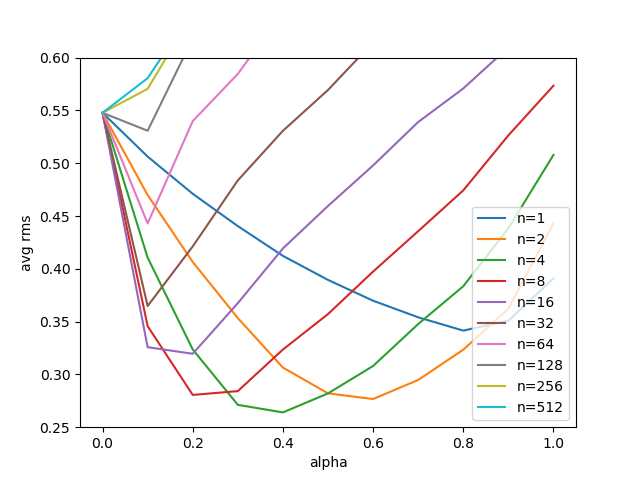
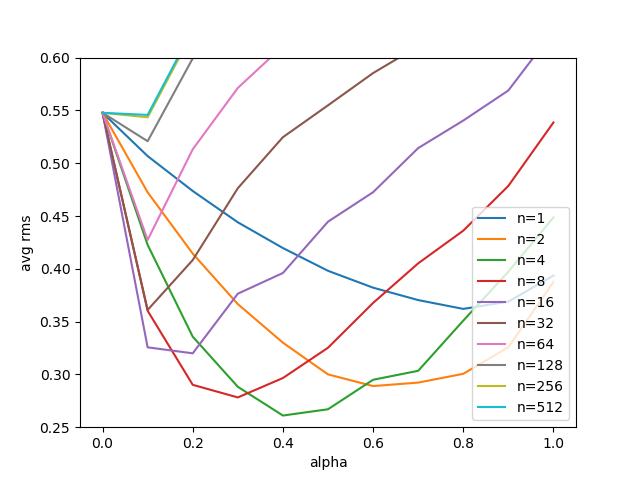
random_start

diff --git a/chap7/prediction/random_walk.py b/chap7/prediction/random_walk.py
@@ -58,7 +58,8 @@ def get_reward(state):
 
 
 def random_start():
-    return 10
+    # return 10
+    return random.randint(LEFT_STATE+1, RIGHT_STATE-1)
 
 
 def is_end(state):
